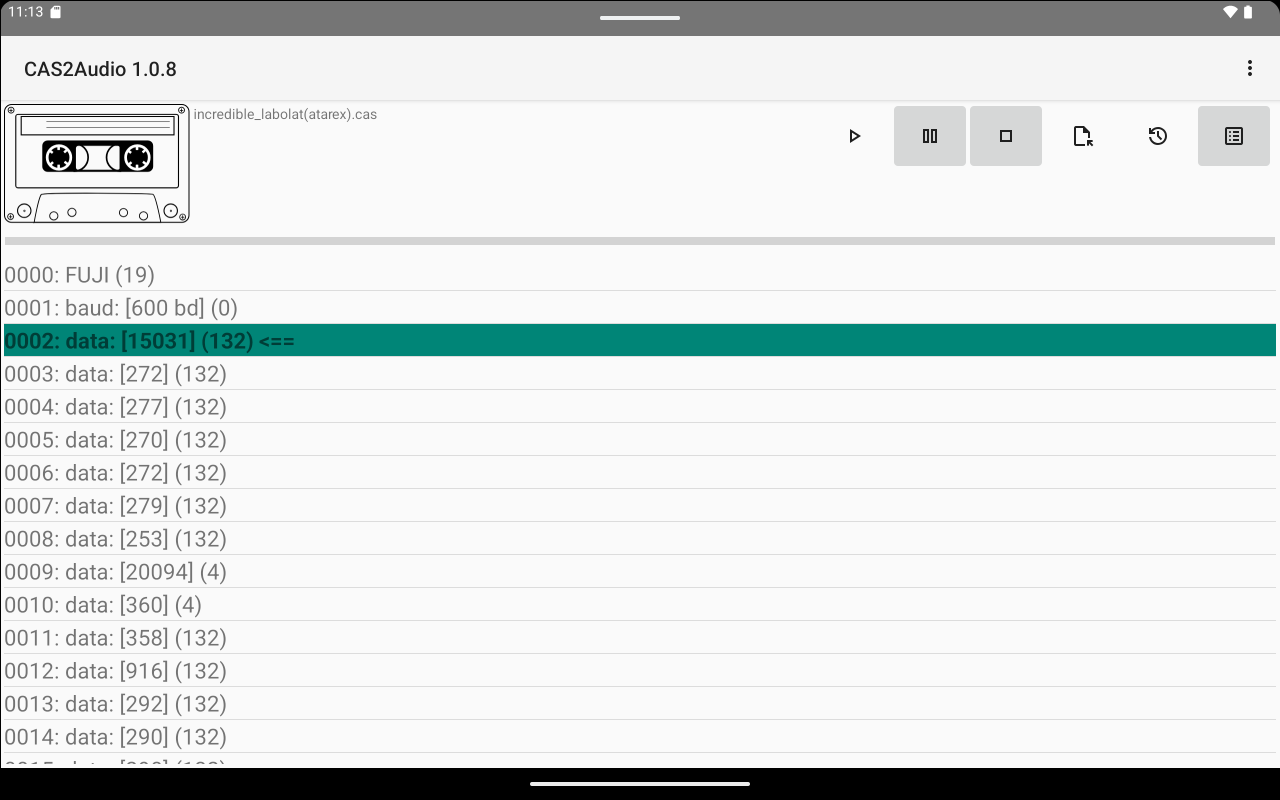
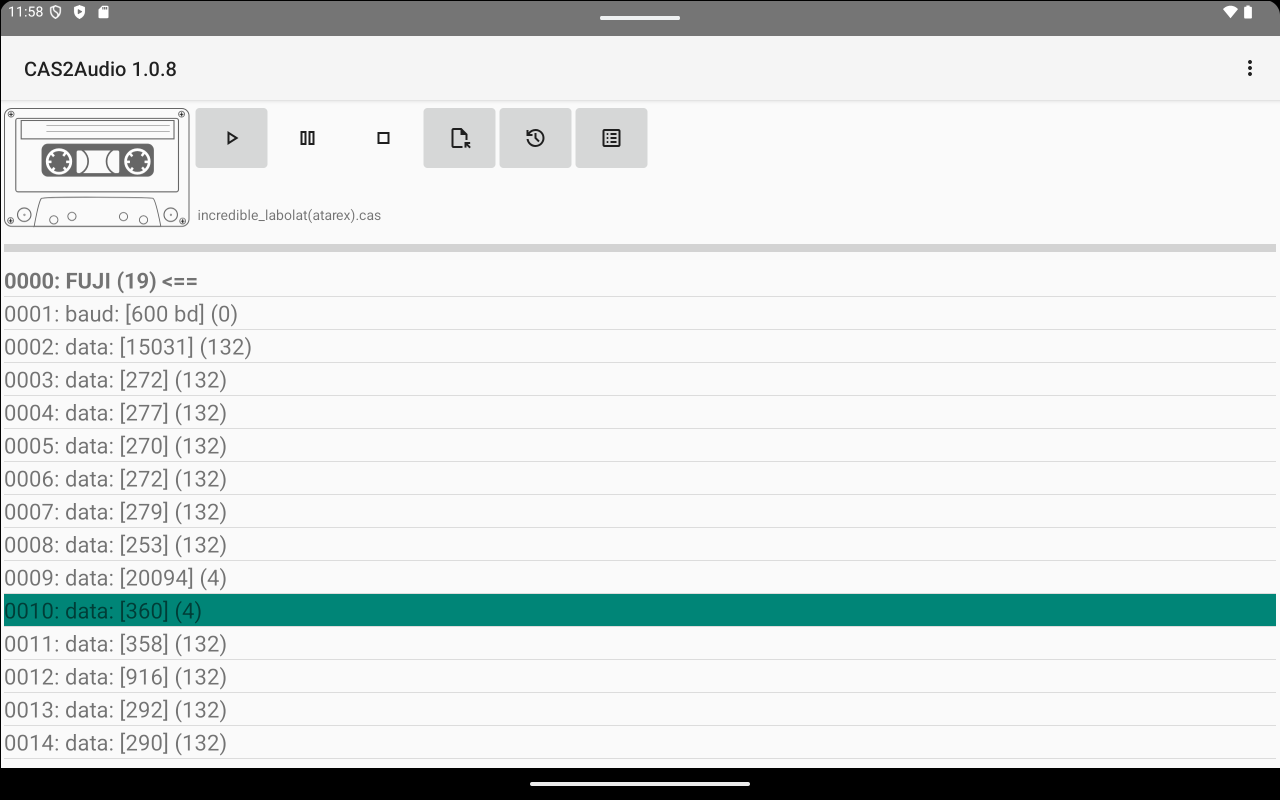
Readme: Subtle refinements, update screenshot GUI: Refine the UI for landscape screens

diff --git a/README.md b/README.md
@@ -4,17 +4,20 @@ Play back tape images for 8-bit Atari computers on mobile devices with Android.
 
 ## Overview
 
-* CAS2Audio plays back Atari 8-bit tape images (.cas) files on small portable devices
+* CAS2Audio plays back Atari 8-bit tape images (.CAS files) on small portable devices
 (phones, tablets) running Android
-* CAS2Audio is a satellite project of TURGEN - <https://turgen.sourceforge.io/>
+* CAS2Audio is a satellite project of TURGEN - <https://turgen.sourceforge.io/>,
+a tool for creating Atari tapes
 
 ### Highlights
 
 * Simple, easy to use user interface with easy access to the recently selected tape images
-* Support for both standard records (FUJI, baud, data, fsk) and turbo records (pwms, pwmc, pwmd, pwml)
+* Support for both standard records (FUJI, baud, data, fsk) and turbo records (pwms, pwmc, pwmd,
+  pwml)
 * You can pause the playback and resume from any tape image chunk
 * The signal is generated on-the-fly (no temporary wave files are needed)
 * Displays animated cassette during playback
+* Since version 1.0.8, full support for landscape screen format
 
 ### Quick Start
 
@@ -23,7 +26,8 @@ You need an 8-bit Atari computer, data recorder, cassette adapter, and a smartph
 * Install CAS2Audio on your smartphone running Android
 * Download some tape images (.CAS files) to your smartphone
 * Connect your data recorder to the Atari computer
-* Insert a cassette adapter in the data recorder and connect the cassette adapter to the headphone jack of your smartphone
+* Insert a cassette adapter in the data recorder and connect the cassette adapter to the headphone
+  jack of your smartphone
 * Prepare the Atari computer to load data
 * Press PLAY on your data recorder
 * Open your tape image in the CAS2Audio and click the PLAY button
